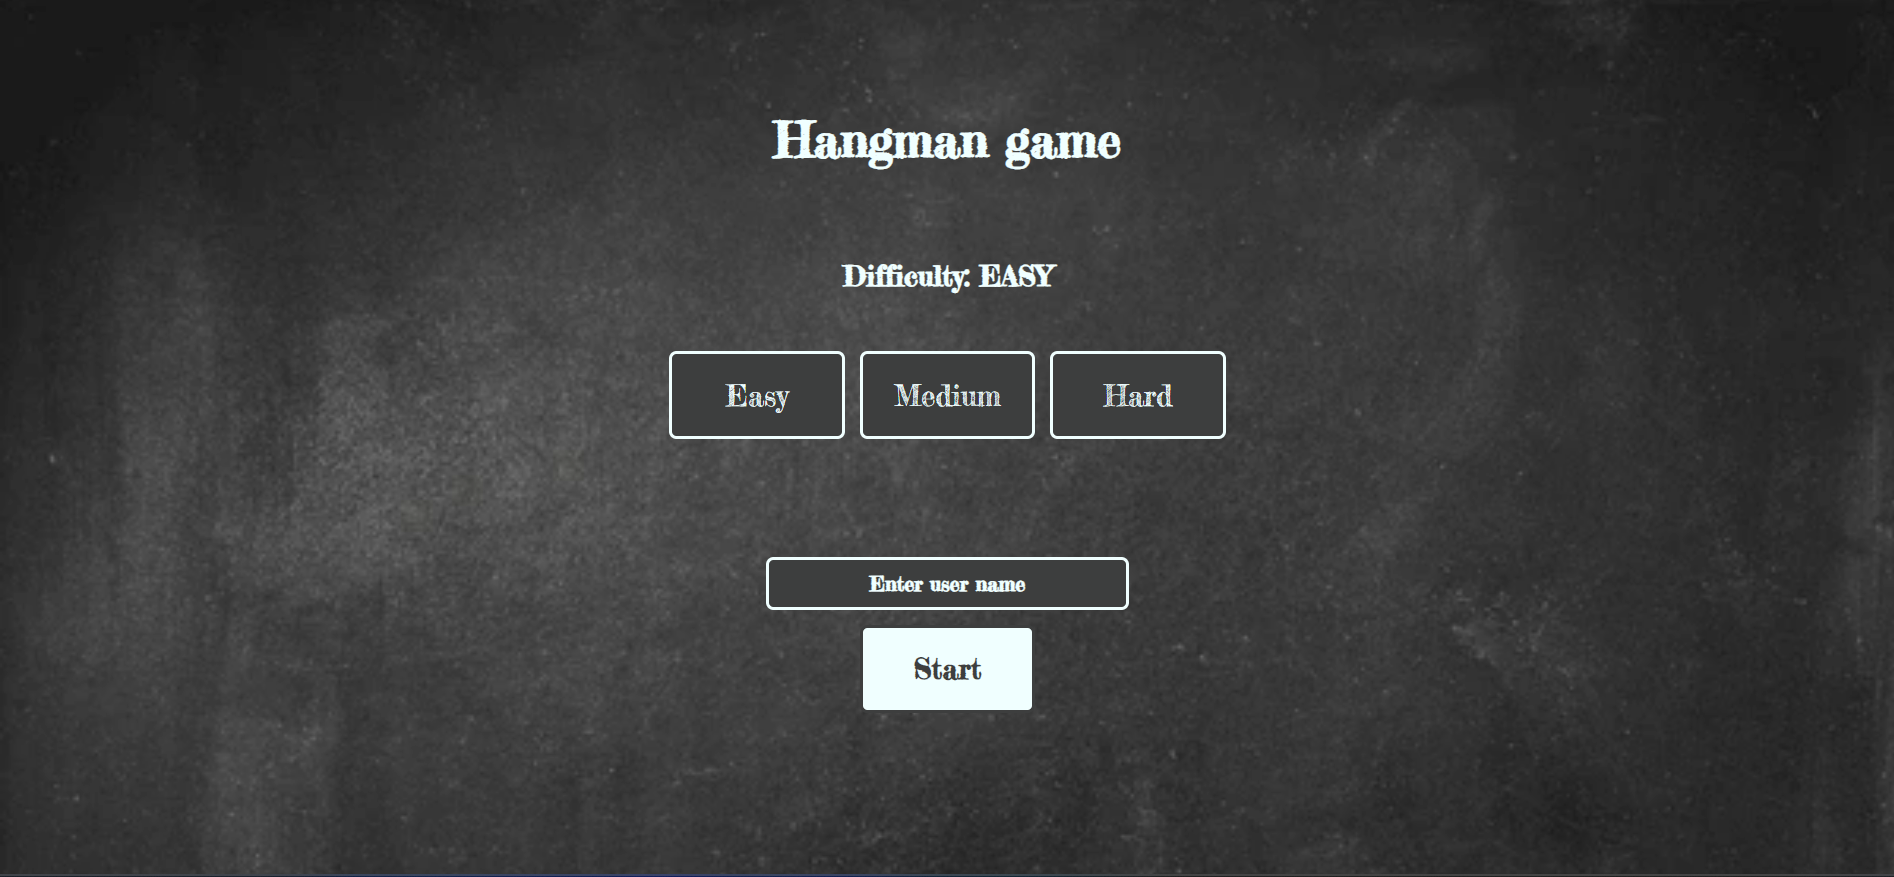
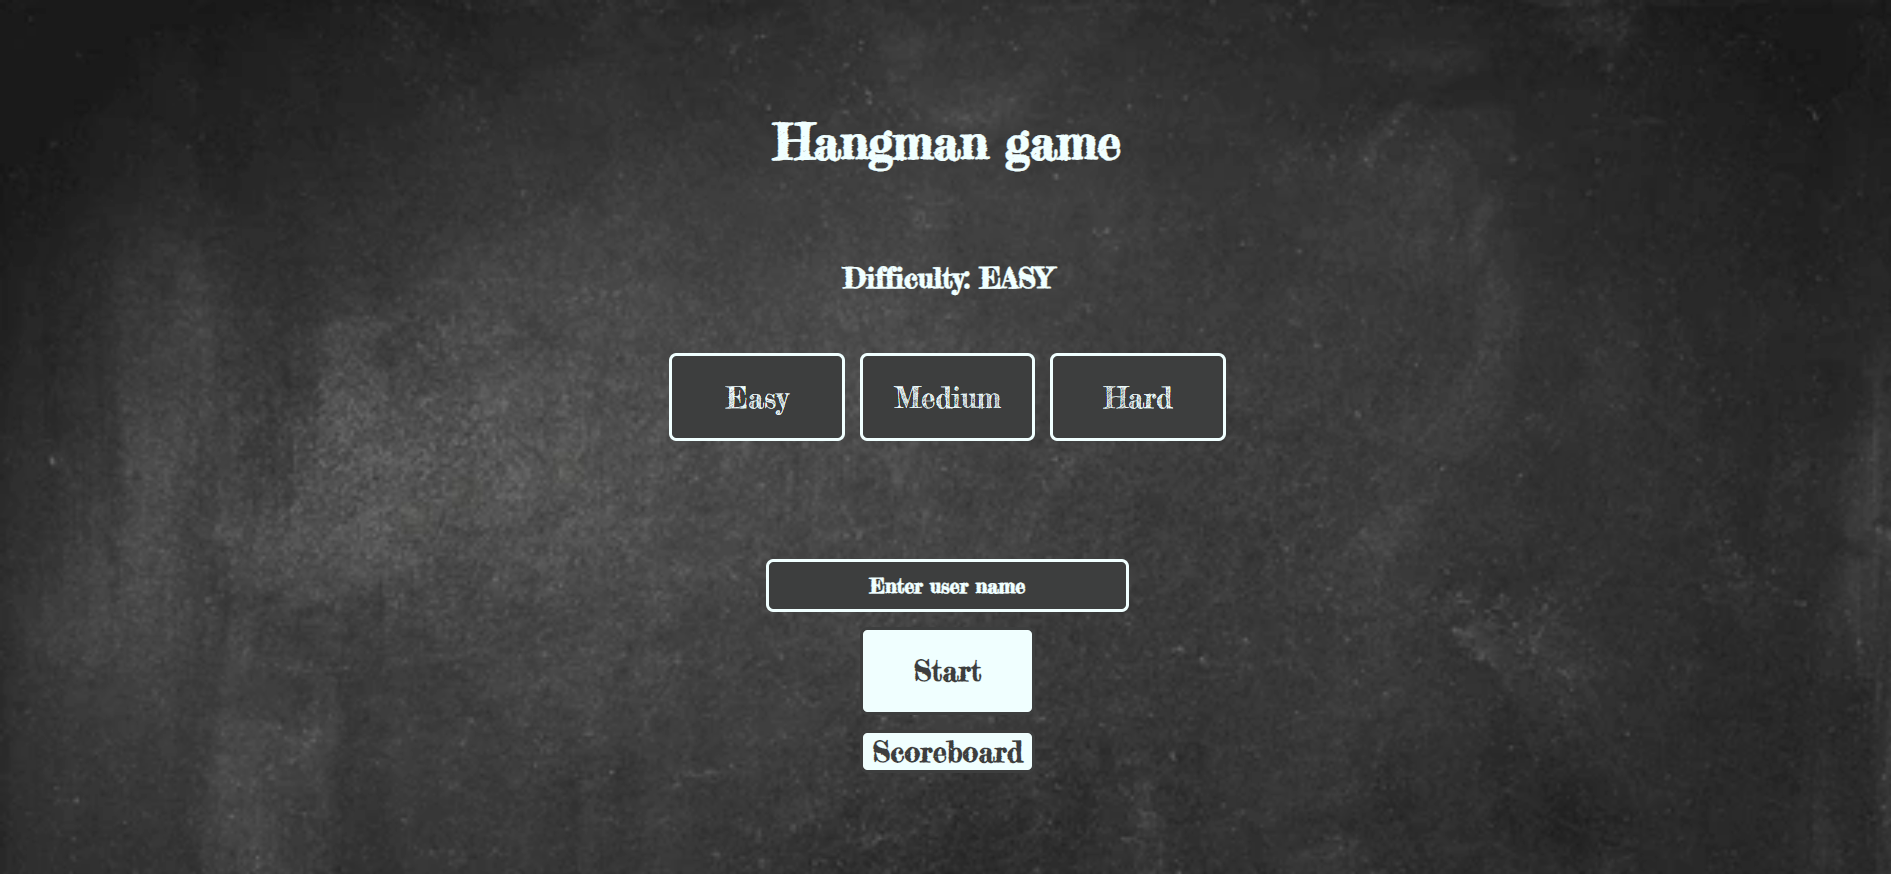
update README

diff --git a/README.md b/README.md
@@ -51,13 +51,17 @@
 
 ![Game Page](/game%20page.png)
 
+##### Scorboard Page
+
+![Scoreboard Page](/scoreboard.png)
+
 ---
 
 ### **_Future Updates_**
 
 - [x] style home page
 - [x] style game page
-- [] add scoreboard
+- [x] add scoreboard
 - [] deploy the game
 
 ---
